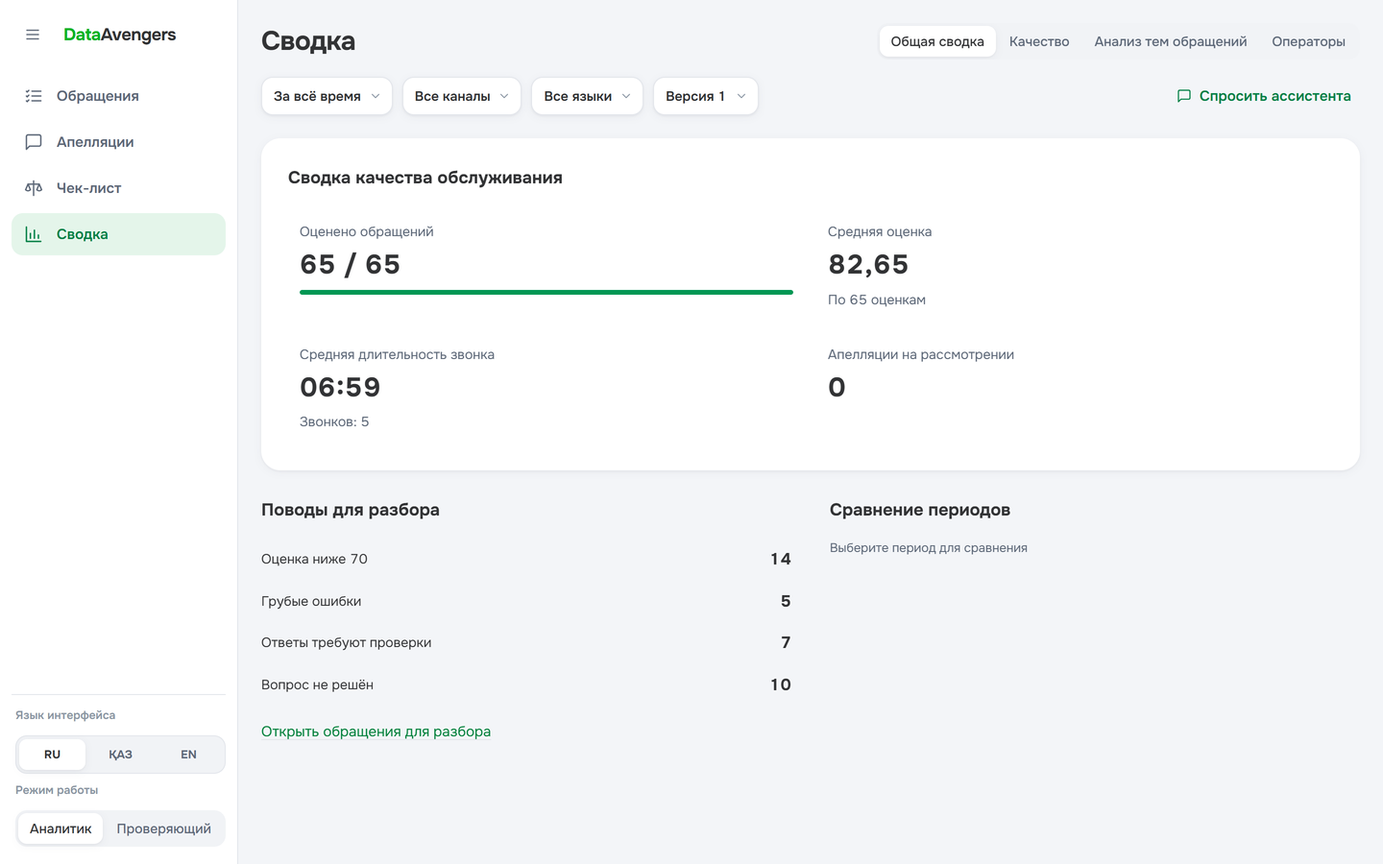
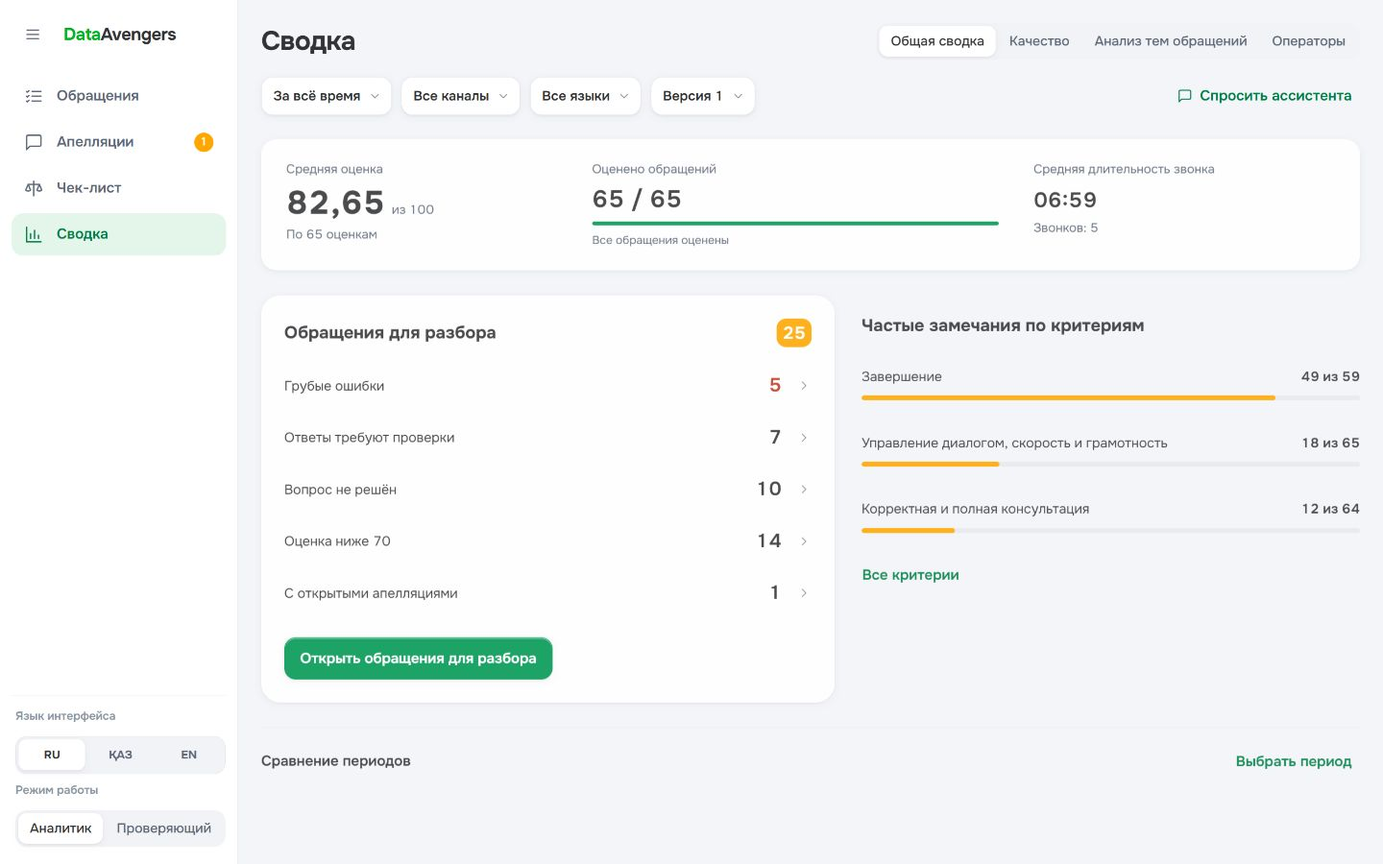
Обновить общую сводку и актуальные экраны в README

diff --git a/web/js/insights.js b/web/js/insights.js
@@ -210,7 +210,21 @@
     topicNoRare: ["Редких тем в этой выборке нет", "Бұл таңдауда сирек тақырыптар жоқ", "No rare topics in this selection"],
     topicOpen: ["Открыть обращения по теме «{topic}»", "«{topic}» тақырыбы бойынша өтініштерді ашу", "Open conversations about {topic}"],
     topicOutcomeLink: ["{topic}: {outcome}, обращений: {count}", "{topic}: {outcome}, өтініштер: {count}", "{topic}: {outcome}, conversations: {count}"],
-    topicResolvedRate: ["Решено {resolved} из {known} обращений с известным результатом ({rate})", "Нәтижесі белгілі {known} өтініштің {resolved} шешілген ({rate})", "Resolved {resolved} of {known} conversations with a known outcome ({rate})"]
+    topicResolvedRate: ["Решено {resolved} из {known} обращений с известным результатом ({rate})", "Нәтижесі белгілі {known} өтініштің {resolved} шешілген ({rate})", "Resolved {resolved} of {known} conversations with a known outcome ({rate})"],
+    overviewReviewTitle: ["Обращения для разбора", "Талдауға арналған өтініштер", "Conversations to review"],
+    overviewCriteriaTitle: ["Частые замечания по критериям", "Критерийлер бойынша жиі ескертулер", "Frequent criterion shortfalls"],
+    overviewCriterionCount: ["{count} из {total}", "{total} ішінен {count}", "{count} of {total}"],
+    overviewCriterionDetail: ["Не выполнено полностью в {count} из {total} обращений, где критерий применим", "Критерий қолданылатын {total} өтініштің {count} толық орындалмаған", "Not fully met in {count} of {total} conversations where this criterion applies"],
+    overviewAllCriteria: ["Все критерии", "Барлық критерийлер", "All criteria"],
+    overviewCriteriaEmpty: ["Нет данных для сравнения критериев", "Критерийлерді салыстыруға деректер жоқ", "No data to compare criteria yet"],
+    overviewCriteriaClear: ["По оценённым критериям замечаний нет", "Бағаланған критерийлер бойынша ескертулер жоқ", "No shortfalls in the assessed criteria"],
+    overviewAllEvaluated: ["Все обращения оценены", "Барлық өтініштер бағаланған", "All conversations evaluated"],
+    overviewUnevaluated: ["Без оценки: {count}", "Бағаланбаған: {count}", "Not evaluated: {count}"],
+    overviewOpenAppeals: ["С открытыми апелляциями", "Ашық апелляциялары бар", "With open appeals"],
+    overviewAppealRecords: ["Апелляций на рассмотрении: {count}", "Қаралудағы апелляциялар: {count}", "Pending appeals: {count}"],
+    overviewReasonLink: ["{reason}: {count} обращений", "{reason}: {count} өтініш", "{reason}: {count} conversations"],
+    overviewChoosePeriod: ["Выбрать период", "Кезеңді таңдау", "Choose a period"],
+    overviewChangePeriod: ["Изменить период", "Кезеңді өзгерту", "Change period"]
   }).map(([key, values]) => ["insights." + key, { ru: values[0], kk: values[1], en: values[2] }])));
   const TABS = ["overview", "quality", "topics", "operators"], LANGS = ["RU", "KZ", "EN"];
   const recordChannelKey = (channel) => channel === "voice call" ? "callRecord" : "chatRecord";
@@ -312,28 +326,52 @@
         h("span", {}, part.label), part.n ? selectionLink(report,data[part.tone + "Ids"],part.n) : h("b",{},0))))] : h("p", { class: "da-muted da-small" }, m("noAppeals")),
       data?.total || report.overview.openAppealCount ? h("a", { class: "da-btn is-text is-sm da-ins-more", href: "#/appeals" }, m("openAppeals")) : null);
   }
-  function periodView(report) {
+  function periodView(report,selectPeriod) {
     const period = report.periodComparison;
-    const rowView = (key,row) => row ? h("div", { class: "da-ins-period-row" }, h("div", {}, h("b", {}, m(key)), h("span", {}, `${row.dateFrom} – ${row.dateTo}`)),
-      h("strong", { title: m("scoreN", { count: row.scoredCount }) }, score(row.avgScore)), selectionLink(report,row.conversationIds,m("evaluatedCount", { count: row.evaluated, total: row.count }),null,{ dateFrom: row.dateFrom, dateTo: row.dateTo })) : null;
-    return h("section", { class: "da-ins-extra-section" }, h("h2", {}, m("periodTitle")), period.available
-      ? h("p", { class: "da-ins-period-delta" }, m("scoreChange", () => ({ value: `${period.deltaScore > 0 ? "+" : ""}${DA.fmt.score(period.deltaScore)}` }))) : note(m(period.reason || "insufficient_data")),
-      period.previous ? [rowView("currentPeriod",period.current),rowView("previousPeriod",period.previous)] : null);
+    const rowView = (key,row) => row ? h("div", { class: "da-ins-overview-period-value" }, h("div", {}, h("b", {}, m(key)),
+      h("span", {}, `${displayDate(row.dateFrom)} – ${displayDate(row.dateTo)}`)),
+      h("strong", { title: m("scoreN", { count: row.scoredCount }) }, score(row.avgScore)),
+      selectionLink(report,row.conversationIds,m("evaluatedCount", { count: row.evaluated, total: row.count }),null,{ dateFrom: row.dateFrom, dateTo: row.dateTo })) : null;
+    return h("section", { class: "da-ins-overview-period"+(period.previous?" has-comparison":"") },
+      h("div",{class:"da-ins-overview-period-head"},h("h2", {}, m("periodTitle")),
+        period.available?h("p",{class:"da-ins-overview-delta"},m("scoreChange",()=>({value:`${period.deltaScore>0?"+":""}${DA.fmt.score(period.deltaScore)}`}))):
+          period.reason!=="period_not_selected"?h("p",{},m(period.reason||"insufficient_data")):null,
+        h("button",{class:"da-btn is-text",type:"button","data-overview-action":"period",onclick:selectPeriod},m(period.reason==="period_not_selected"?"overviewChoosePeriod":"overviewChangePeriod"))),
+      period.previous?h("div",{class:"da-ins-overview-period-values"},rowView("currentPeriod",period.current),rowView("previousPeriod",period.previous)):null);
   }
-  function overview(report) {
+  function overview(report,view) {
     const data = report.overview, coverage = report.coverage;
-    const metric = (label,value,help,extra) => h("section", { class: "da-ins-stat" }, h("h3", {}, m(label)), h("div", { class: "da-ins-stat-value" }, value), extra || null, help ? h("p", {}, help) : null);
-    const reasons = [["lowScore",m("lowScore",{score:data.lowScoreThreshold}),data.lowScoreCount],["gross",m("grossErrors"),data.grossCount],
-      ["review",m("manualReview"),data.reviewCount],["unresolved",m("unresolved"),data.unresolvedCount],["failed",m("failedEvaluations"),coverage.failed]];
-    return h("div", {}, h("section", { class: "da-ins-dashboard" }, h("h2", {}, m("overviewTitle")), h("div", { class: "da-ins-stats" },
-      metric("evaluatedLabel",`${coverage.evaluated} / ${report.scope.total}`,null,
-        h("div", { class: "da-ins-progress", role: "progressbar", "aria-label":m("evaluatedLabel"), "aria-valuenow":coverage.evaluated,"aria-valuemin":0,"aria-valuemax":report.scope.total || 1 },h("i",{style:{width:`${report.scope.total ? coverage.evaluated / report.scope.total * 100 : 0}%`}}))),
-      metric("averageLabel",score(data.avgScore),m("scoreN",{count:data.scoredCount})),
-      metric("callDuration",duration(data.callDuration.averageSeconds),data.callDuration.count?m("callsCount",{count:data.callDuration.count}):null),
-      metric("pendingAppeals",selectionLink(report,data.drilldowns.openAppeals,data.openAppealCount),null))),
-      h("div",{class:"da-ins-extras"},h("section",{class:"da-ins-extra-section"},h("h2",{},m("reviewReasons")),
-        reasons.some((part)=>part[2]) ? h("div",{class:"da-ins-reasons"},reasons.filter((part)=>part[2]).map(([key,label,count])=>selectionLink(report,data.drilldowns[key],[h("span",{},label),h("b",{},count)],"da-ins-reason"))) : note(m("noReview")),
-        data.attentionCount ? selectionLink(report,data.drilldowns.attention,m("reviewSelection")) : null),periodView(report)));
+    const reasons = [["gross","grossErrors",data.grossCount],["review","manualReview",data.reviewCount],["unresolved","unresolved",data.unresolvedCount],
+      ["lowScore","lowScore",data.lowScoreCount],["openAppeals","overviewOpenAppeals",data.openAppealConversations],["failed","failedEvaluations",coverage.failed]].filter((part)=>part[2]>0);
+    const criteria=report.criteria.filter(row=>row.type!=="flag"&&row.belowTargetCount>0).slice().sort((a,b)=>b.belowTargetCount-a.belowTargetCount).slice(0,3);
+    const hasAssessedCriteria=report.criteria.some(row=>row.type!=="flag"&&row.applicable>0);
+    const reviewRow=([key,label,count])=>h("a",{class:"da-ins-overview-reason"+(key==="gross"?" is-gross":""),href:DA.registryFilters.href({...report.scope.filters,conversationIds:data.drilldowns[key]}),
+      "data-overview-source":key,"aria-label":m("overviewReasonLink",()=>({reason:t(label,{score:data.lowScoreThreshold}),count}))},
+      h("span",{},m(label,{score:data.lowScoreThreshold}),key==="openAppeals"&&data.openAppealCount!==count?h("small",{},m("overviewAppealRecords",{count:data.openAppealCount})):null),
+      h("b",{},count),DA.icon("chevron",15));
+    return h("div",{class:"da-ins-overview"},
+      h("section",{class:"da-ins-overview-picture","aria-label":m("overviewTitle")},
+        h("div",{class:"da-ins-overview-score"},h("span",{class:"da-ins-overview-label"},m("averageLabel")),
+          h("div",{},h("b",{class:data.avgScore==null?"is-empty":""},score(data.avgScore)),data.avgScore!=null?h("small",{},m("of100")):null),h("p",{},m("scoreN",{count:data.scoredCount}))),
+        h("div",{class:"da-ins-overview-coverage"},h("span",{class:"da-ins-overview-label"},m("evaluatedLabel")),
+          selectionLink(report,data.drilldowns.evaluated,`${coverage.evaluated} / ${report.scope.total}`,"da-ins-overview-evaluated"),
+          h("div",{class:"da-ins-progress",role:"progressbar","aria-label":m("evaluatedLabel"),"aria-valuenow":coverage.evaluated,"aria-valuemin":0,"aria-valuemax":report.scope.total||1},h("i",{style:{width:`${report.scope.total?coverage.evaluated/report.scope.total*100:0}%`}})),
+          h("div",{class:"da-ins-overview-coverage-notes"},coverage.unevaluated?selectionLink(report,data.drilldowns.unevaluated,m("overviewUnevaluated",{count:coverage.unevaluated})):h("span",{},m("overviewAllEvaluated")),
+            coverage.pending?selectionLink(report,data.drilldowns.pending,m("coverageRunning",{count:coverage.pending})):null)),
+        h("div",{class:"da-ins-overview-duration"},h("span",{class:"da-ins-overview-label"},m("callDuration")),h("b",{},duration(data.callDuration.averageSeconds)),
+          data.callDuration.count?h("p",{},m("callsCount",{count:data.callDuration.count})):null)),
+      h("div",{class:"da-ins-overview-work"},
+        h("section",{class:"da-ins-overview-review"},h("div",{class:"da-ins-overview-section-head"},h("h2",{},m("overviewReviewTitle")),h("span",{class:"da-count","data-overview-count":"attention"},data.attentionCount)),
+          reasons.length?h("div",{class:"da-ins-overview-reasons"},reasons.map(reviewRow)):h("p",{class:"da-ins-overview-empty"},m("noReview")),
+          data.attentionCount?selectionLink(report,data.drilldowns.attention,m("reviewSelection"),"da-btn is-primary da-ins-overview-open"):null),
+        h("section",{class:"da-ins-overview-criteria"},h("h2",{},m("overviewCriteriaTitle")),
+          criteria.length?h("div",{class:"da-ins-overview-criterion-list"},criteria.map(row=>h("a",{class:"da-ins-overview-criterion",href:DA.registryFilters.href({...report.scope.filters,conversationIds:row.belowTargetIds}),
+            "data-overview-criterion":row.id,title:m("overviewCriterionDetail",{count:row.belowTargetCount,total:row.applicable})},h("span",{},row.title),
+            h("b",{},m("overviewCriterionCount",{count:row.belowTargetCount,total:row.applicable})),
+            h("span",{class:"da-ins-overview-criterion-bar","aria-hidden":"true"},h("i",{style:{width:`${row.applicable?Math.min(100,row.belowTargetCount/row.applicable*100):0}%`}}))))) :
+            h("p",{class:"da-ins-overview-empty"},m(hasAssessedCriteria?"overviewCriteriaClear":"overviewCriteriaEmpty")),
+          h("a",{class:"da-btn is-text da-ins-overview-all-criteria",href:view.qualityHref},m("overviewAllCriteria")))),
+      periodView(report,view.selectPeriod));
   }
   const TOPIC_OUTCOMES=["resolved","unresolved","unknown"],TOPIC_SORTS=["unresolved","count","name"];
   const topicOutcomeKey=key=>"topic"+key[0].toUpperCase()+key.slice(1);
@@ -653,14 +691,14 @@
       const matrixScroll=body.querySelector('.da-ins-matrix-wrap')?.scrollLeft;
       ask.disabled=!report||loading||!!loadError||!!(tab==="operators"&&operatorId&&!report?.operators.some(item=>item.id===operatorId));
       const active=body.contains(document.activeElement)?document.activeElement:null;
-      const focusKey=active?["data-page-action","data-operator","data-conversation","data-topic-action","data-topic-target","href"].map(key=>[key,active.getAttribute(key)]).find(([,value])=>value!=null):null;
+      const focusKey=active?["data-page-action","data-operator","data-conversation","data-topic-action","data-topic-target","data-overview-action","data-overview-source","data-overview-criterion","href"].map(key=>[key,active.getAttribute(key)]).find(([,value])=>value!=null):null;
       const pageFocus=document.activeElement?.dataset.pageAction;closeTableDropdowns();
       const disclosures=new Map([...body.querySelectorAll("details[data-disclosure]")].map(node=>[node.dataset.disclosure,node.open]));
       const focused=body.contains(document.activeElement)?document.activeElement.closest("details[data-disclosure]")?.dataset.disclosure:null;
       if(loading){body.replaceChildren(h("p",{class:"da-ins-loading",role:"status"},m("loading")));return;}
       if(loadError){body.replaceChildren(h("div",{class:"da-empty",role:"alert"},h("h2",{},m("loadFailed")),h("p",{},DA.apiErrorMessage(loadError)),h("button",{class:"da-btn",type:"button",onclick:()=>load()},m("retry"))));return;}
       if(!report)return;
-      body.replaceChildren(...(tab==="quality"?[coverage()]:hasAdditionalFilters()?[h("div",{class:"da-ins-cover"},selectionLink(report,report.scope.conversationIds,m("extraFilters")))]:[]),report.scope.total||tab==="operators"&&operatorId?h("div",{class:"da-ins-tab","data-tab":tab},tab==="quality"?quality(report):tab==="topics"?topicView():tab==="operators"?operatorView():overview(report)):
+      body.replaceChildren(...(tab==="quality"?[coverage()]:hasAdditionalFilters()?[h("div",{class:"da-ins-cover"},selectionLink(report,report.scope.conversationIds,m("extraFilters")))]:[]),report.scope.total||tab==="operators"&&operatorId?h("div",{class:"da-ins-tab","data-tab":tab},tab==="quality"?quality(report):tab==="topics"?topicView():tab==="operators"?operatorView():overview(report,{qualityHref:viewHref("quality"),selectPeriod:()=>{range.open();dates.from.focus();}})):
         h("div",{class:"da-empty"},h("h2",{},m("noMatches")),h("p",{},m("noMatchesHelp"))));
       body.querySelectorAll("details[data-disclosure]").forEach(node=>{if(disclosures.has(node.dataset.disclosure))node.open=disclosures.get(node.dataset.disclosure);if(focused===node.dataset.disclosure)node.querySelector("summary").focus({preventScroll:true});});
       if(pageFocus)(body.querySelector(`[data-page-action="${pageFocus}"]:not([disabled])`)||body.querySelector('[aria-current="page"]'))?.focus({preventScroll:true});

diff --git a/web/styles/insights.css b/web/styles/insights.css
@@ -475,3 +475,72 @@
   .da-ins-topics-table { min-width: 700px; }
   .da-ins-topic-panel > .da-ins-list-wrap { overflow-x: auto; }
 }
+
+/* The overview gives review work the main surface and keeps context compact. */
+.da-ins-overview-picture { display: grid; grid-template-columns: .9fr 1.35fr 1fr; align-items: start; gap: 36px; padding: 22px 26px; margin-bottom: 26px; border-radius: var(--da-r-card); background: var(--da-surface); box-shadow: var(--da-shadow-rest); }
+.da-ins-overview-label { display: block; color: var(--da-text-2); font-size: 13px; line-height: 1.45; }
+.da-ins-overview-picture p { margin: 5px 0 0; color: var(--da-text-2); font-size: 13px; line-height: 1.45; }
+.da-ins-overview-score > div { display: flex; align-items: baseline; flex-wrap: wrap; gap: 7px; margin-top: 7px; }
+.da-ins-overview-score b { font-size: 34px; line-height: 1.1; font-weight: 650; }
+.da-ins-overview-score b.is-empty { font-size: 24px; }
+.da-ins-overview-score small { color: var(--da-text-2); font-size: 13px; }
+.da-ins-overview-evaluated { display: inline-block; margin: 7px 0 8px; color: var(--da-text); font-size: 25px; font-weight: 600; line-height: 1.2; text-decoration: none; }
+.da-ins-overview-evaluated:hover { color: var(--da-brand-press); text-decoration: underline; text-underline-offset: 4px; }
+.da-ins-overview-coverage .da-ins-progress { height: 4px; margin-bottom: 7px; }
+.da-ins-overview-coverage-notes { display: flex; flex-wrap: wrap; gap: 6px 15px; font-size: 12px; line-height: 1.5; color: var(--da-text-2); }
+.da-ins-overview-duration > b { display: block; margin: 10px 0 6px; font-size: 22px; line-height: 1.2; font-weight: 550; }
+.da-ins-overview-work { display: grid; grid-template-columns: 1.15fr 1fr; gap: 28px; align-items: start; }
+.da-ins-overview-review { padding: 24px; border-radius: var(--da-r-panel); background: var(--da-surface); box-shadow: var(--da-shadow-rest); }
+.da-ins-overview-section-head { display: flex; align-items: center; justify-content: space-between; gap: 16px; margin-bottom: 14px; }
+.da-ins-overview h2 { margin: 0; font-size: 18px; line-height: 1.4; font-weight: 650; }
+.da-ins-overview-section-head .da-count { font-size: 18px; min-width: 36px; min-height: 30px; }
+.da-ins-overview-reasons { display: grid; gap: 2px; }
+.da-ins-overview-reason { display: grid; grid-template-columns: minmax(0,1fr) auto 15px; align-items: center; gap: 16px; min-height: 52px; padding: 10px; margin: 0 -10px; border-radius: 10px; color: var(--da-text); font-size: 14px; line-height: 1.45; text-decoration: none; transition: background var(--da-fast); }
+.da-ins-overview-reason:hover { background: var(--da-surface-2); }
+.da-ins-overview-reason > b { font-size: 20px; line-height: 1.2; font-weight: 600; }
+.da-ins-overview-reason.is-gross > b { color: var(--da-no-ink); }
+.da-ins-overview-reason small { display: block; margin-top: 3px; color: var(--da-text-2); font-size: 12px; }
+.da-ins-overview-reason > .da-icon { color: var(--da-text-3); transition: transform var(--da-fast); }
+.da-ins-overview-reason:hover > .da-icon { color: var(--da-brand-press); transform: translateX(2px); }
+.da-ins-overview-open { height: auto; min-height: 44px; margin-top: 20px; padding-top: 10px; padding-bottom: 10px; white-space: normal; text-align: center; }
+.da-ins-overview-empty { margin: 18px 0; color: var(--da-text-2); font-size: 14px; line-height: 1.55; }
+.da-ins-overview-criteria { padding: 19px 0 0; }
+.da-ins-overview-criterion-list { display: grid; gap: 6px; margin: 16px 0 4px; }
+.da-ins-overview-criterion { display: grid; grid-template-columns: minmax(0,1fr) auto; align-items: start; gap: 6px 16px; padding: 14px 12px; margin: 0 -12px; border-radius: 12px; color: var(--da-text); text-decoration: none; transition: background var(--da-fast); }
+.da-ins-overview-criterion:hover { background: var(--da-surface); }
+.da-ins-overview-criterion > span:first-child { font-size: 14px; line-height: 1.5; }
+.da-ins-overview-criterion > b { font-size: 14px; line-height: 1.5; font-weight: 600; white-space: nowrap; }
+.da-ins-overview-criterion-bar { grid-column: 1 / -1; display: block; height: 5px; overflow: hidden; margin-top: 3px; background: var(--da-surface-3); border-radius: 4px; }
+.da-ins-overview-criterion-bar i { display: block; height: 100%; border-radius: inherit; background: var(--da-partial); }
+.da-ins-overview-all-criteria { margin: 6px 0 0 -8px; }
+.da-ins-overview-period { margin-top: 26px; border-top: 1px solid var(--da-line); padding-top: 15px; }
+.da-ins-overview-period-head { display: flex; align-items: center; flex-wrap: wrap; gap: 10px 22px; }
+.da-ins-overview-period-head h2 { font-size: 15px; font-weight: 600; }
+.da-ins-overview-period-head p { margin: 0; color: var(--da-text-2); font-size: 13px; line-height: 1.5; }
+.da-ins-overview-period-head p.da-ins-overview-delta { color: var(--da-text); font-size: 15px; font-weight: 550; }
+.da-ins-overview-period-head > button { margin-left: auto; }
+.da-ins-overview-period-values { display: grid; grid-template-columns: repeat(2,minmax(0,1fr)); gap: 32px; padding: 18px 0 0; }
+.da-ins-overview-period-value { display: grid; grid-template-columns: minmax(0,1fr) auto; align-items: start; gap: 8px 24px; font-size: 13px; }
+.da-ins-overview-period-value b, .da-ins-overview-period-value span { display: block; line-height: 1.5; }
+.da-ins-overview-period-value b { font-weight: 550; }
+.da-ins-overview-period-value span { color: var(--da-text-2); }
+.da-ins-overview-period-value > strong { font-size: 24px; line-height: 1.3; font-weight: 600; }
+.da-ins-overview-period-value > a { grid-column: 1 / -1; justify-self: start; }
+@media (max-width: 1050px) {
+  .da-ins-overview-picture { gap: 24px; padding: 20px 22px; }
+  .da-ins-overview-work { gap: 22px; }
+  .da-ins-overview-review { padding: 20px; }
+  .da-ins-overview-criterion { grid-template-columns: 1fr; gap: 5px; }
+}
+@media (max-width: 760px) {
+  .da-ins-overview-picture { grid-template-columns: minmax(0,1fr) minmax(0,1fr); gap: 22px; padding: 20px; }
+  .da-ins-overview-duration { grid-column: 1 / -1; display: flex; align-items: baseline; flex-wrap: wrap; gap: 6px 12px; }
+  .da-ins-overview-duration > b, .da-ins-overview-duration > p { margin: 0; }
+  .da-ins-overview-duration > b { font-size: 18px; }
+  .da-ins-overview-work { grid-template-columns: 1fr; gap: 18px; }
+  .da-ins-overview-criteria { padding: 0 8px; }
+  .da-ins-overview-criterion { grid-template-columns: minmax(0,1fr) auto; }
+  .da-ins-overview-open { width: 100%; padding-inline: 12px; font-size: 13px; }
+  .da-ins-overview-period-values { grid-template-columns: 1fr; gap: 22px; }
+}
+@media (prefers-reduced-motion: reduce) { .da-ins-overview-reason:hover > .da-icon { transform: none; } }

diff --git a/README.md b/README.md
@@ -192,7 +192,7 @@ W           = сумма весов применимых критериев
 
 Чтобы ответить, ассистент сам вызывает инструменты чтения: серверную сводку, поиск разговоров, чтение конкретного разговора, распределение тем, сравнение версий чек-листа. Пока он работает, видно, что именно он делает: ищет обращения, читает разговор, сравнивает правила. Текст появляется по мере генерации.
 
-![ИИ-ассистент на экране тем: ответ о нерешённых обращениях с источниками и кнопками перехода](docs/img/assistant.png)
+![ИИ-ассистент: ответ о нерешённых темах со ссылкой на источник и переходами к конкретным группам обращений](docs/img/assistant.png)
 
 В конце ответа стоят источники и кнопки перехода: открыть обращение, открыть группу обращений по критерию в реестре, открыть сравнение версий. Сервер проверяет, что упомянутые обращения существуют, а цитаты дословно есть в разговорах.
 
@@ -222,7 +222,7 @@ W           = сумма весов применимых критериев
 
 <table>
   <tr>
-    <td width="50%"><img src="docs/img/overview.png" alt="Общая сводка: оценено, средний итог, длительность звонков, поводы для разбора"></td>
+    <td width="50%"><img src="docs/img/overview.png" alt="Общая сводка: средний итог, охват оценки, обращения для разбора и частые замечания"></td>
     <td width="50%"><img src="docs/img/quality.png" alt="Качество: доля выполнения каждого критерия по всем обращениям и по языкам"></td>
   </tr>
   <tr>
@@ -230,7 +230,7 @@ W           = сумма весов применимых критериев
     <td><b>Качество.</b> Доля выполнения каждого критерия всего и отдельно по RU, KZ и EN, распределение ответов и неприменимость. Слабое место подсвечено: на DEV это завершение разговора, около 17 %.</td>
   </tr>
   <tr>
-    <td><img src="docs/img/topics.png" alt="Темы обращений: популярность тем и доля решённых"></td>
+    <td><img src="docs/img/topics.png" alt="Темы обращений: таблица с количеством решённых, нерешённых и неизвестных исходов"></td>
     <td><img src="docs/img/operators.png" alt="Операторы: обращения, средний итог, слабое место, грубые ошибки"></td>
   </tr>
   <tr>
@@ -291,7 +291,7 @@ sequenceDiagram
     S-->>A: Новый итог и решение в карточке
 ```
 
-После решения в карточке видны исходный ответ модели, ответ проверяющего, причина и новый итог. Сводка и выгрузка используют уже исправленный результат.
+После решения в карточке видны исходный ответ модели, ответ проверяющего, причина и новый итог. Сводка учитывает исправленный результат. CSV и JSON через API содержат исходные и окончательные ответы отдельно; `results.json` для организаторов сохраняет исходные ответы модели.
 
 <a id="import"></a>
 ## Импорт, автоматическая обработка и выгрузка
@@ -302,7 +302,7 @@ sequenceDiagram
 | CRM | Синхронизация выбранного набора с постоянными номерами обращений |
 | Без дублей | Новые записи добавляются, изменённые обновляются, неизменные пропускаются. Импорт сообщает, сколько каких |
 | Автообработка | Новые обращения сразу встают в очередь на оценку, резюме и расшифровку звонков; каждое действие отключается отдельно |
-| Выгрузка | `results.json` в формате организаторов, а также CSV и JSON из интерфейса |
+| Выгрузка | `results.json` в формате организаторов из интерфейса, а также CSV и JSON через API |
 | Учёт расходов | Стоимость каждой оценки, перевода, расшифровки и ответа ассистента. Если провайдер не вернул цену, сумма помечается неполной, а не обнуляется |
 
 ```mermaid

diff --git a/web/TESTING.md b/web/TESTING.md
@@ -1,5 +1,17 @@
 # Проверка правок после ревью
 
+## Общая сводка и актуальные снимки — 8 ноября 2026
+
+По отдельному запросу пользователя переработана вкладка «Общая сводка». Средняя оценка, охват и длительность звонка занимают компактную строку; список обращений для разбора вынесен в основной блок. Рядом три критерия с наибольшим числом ответов ниже полной ступени. Счётчик разбора использует серверное объединение обращений, а не сумму пересекающихся причин. Сравнение периодов открывает существующий календарь; доступные сравнения сохраняют ссылки на оба периода. Темы, качество и операторы не менялись.
+
+161 тест интерфейса прошёл, включая 31 профильную проверку аналитики. Независимый аудит проверил объединение причин, единицы апелляций, применимые критерии, точные группы и фильтры, пустые состояния и устойчивость опроса. Backend не менялся. В браузере QA переход из «Завершение: 49 из 59» открыл реестр с 49 обращениями; общая кнопка разбора — с 25. «Выбрать период» открыл календарь с действием «Применить».
+
+Пиксельная проверка 1440×900: главные числа, причины разбора, три критерия и выбор периода помещаются на одном экране; подписи и действия не перекрываются. На 390×844 блоки идут одной колонкой, кнопка разбора и названия критериев переносятся, ширина документа равна 390 px. Полный снимок узкого экрана проверен отдельно. Доказательства: `agents/verification-overview-2026-11-08/overview-current-1440.png` и `overview-current-390.png` вне Git. Это проверка агента, не пользовательская приёмка.
+
+Пользователь разрешила обновить скриншоты README и презентации, заменив прежнее ограничение для PNG. Обновлены общая сводка, темы и ассистент; остальные десять используемых снимков остаются применимы к неизменённым экранам. SVG-схемы не менялись. Пользователь отдельно предпочла прежнее конкретное перечисление показателей в описании общей сводки — этот текст восстановлен.
+
+Для актуального снимка презентации открыта карточка № 007 на изолированном QA. Приложение автоматически подготовило советы одним вызовом модели за $0,00277425; это отдельный разбор, не переоценка критериев. Сохранены настоящие экран карточки и советы с примерами фраз. Production-генерация не запускалась.
+
 ## Компактные темы и читаемый ассистент — 8 ноября 2026
 
 Пользователь попросила закончить оставшиеся после Claude изменения: сделать темы понятнее и короче, улучшить ИИ-виджет, переработать слабые слайды презентации. Новые SVG/PNG README разрешено использовать как референс, но менять запрещено. Все 32 файла `docs/img` сверяются с сохранёнными хэшами; прежний незакоммиченный `assistant.png` сохранён без изменения байтов.
